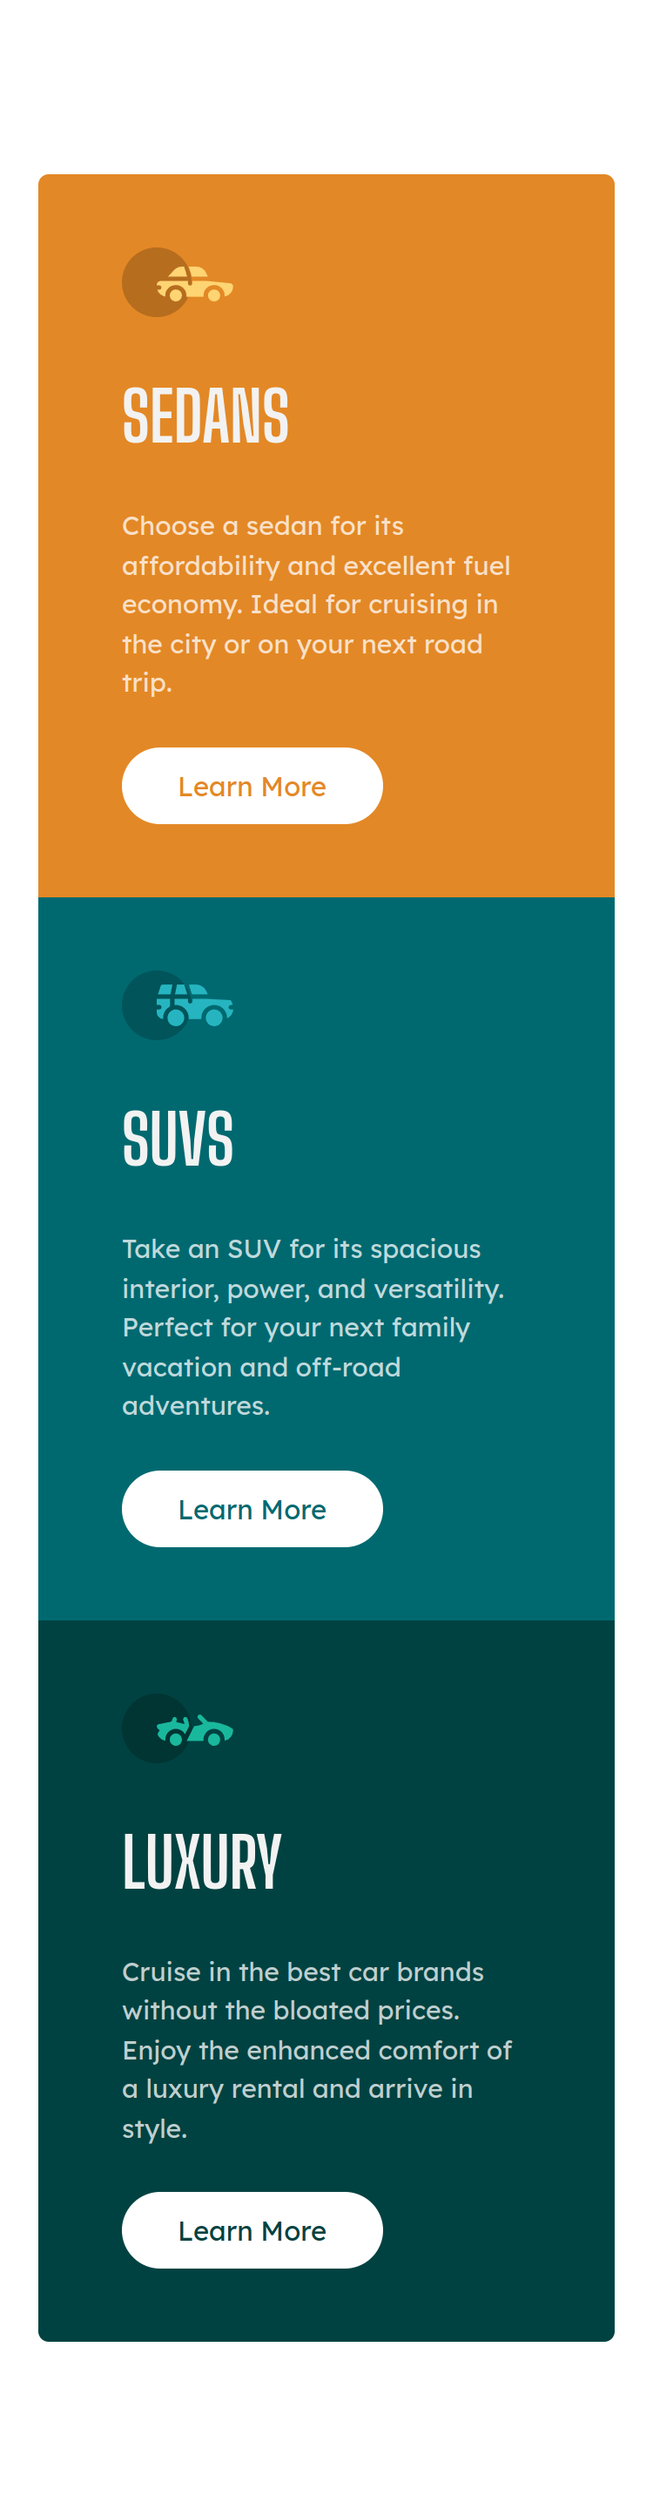
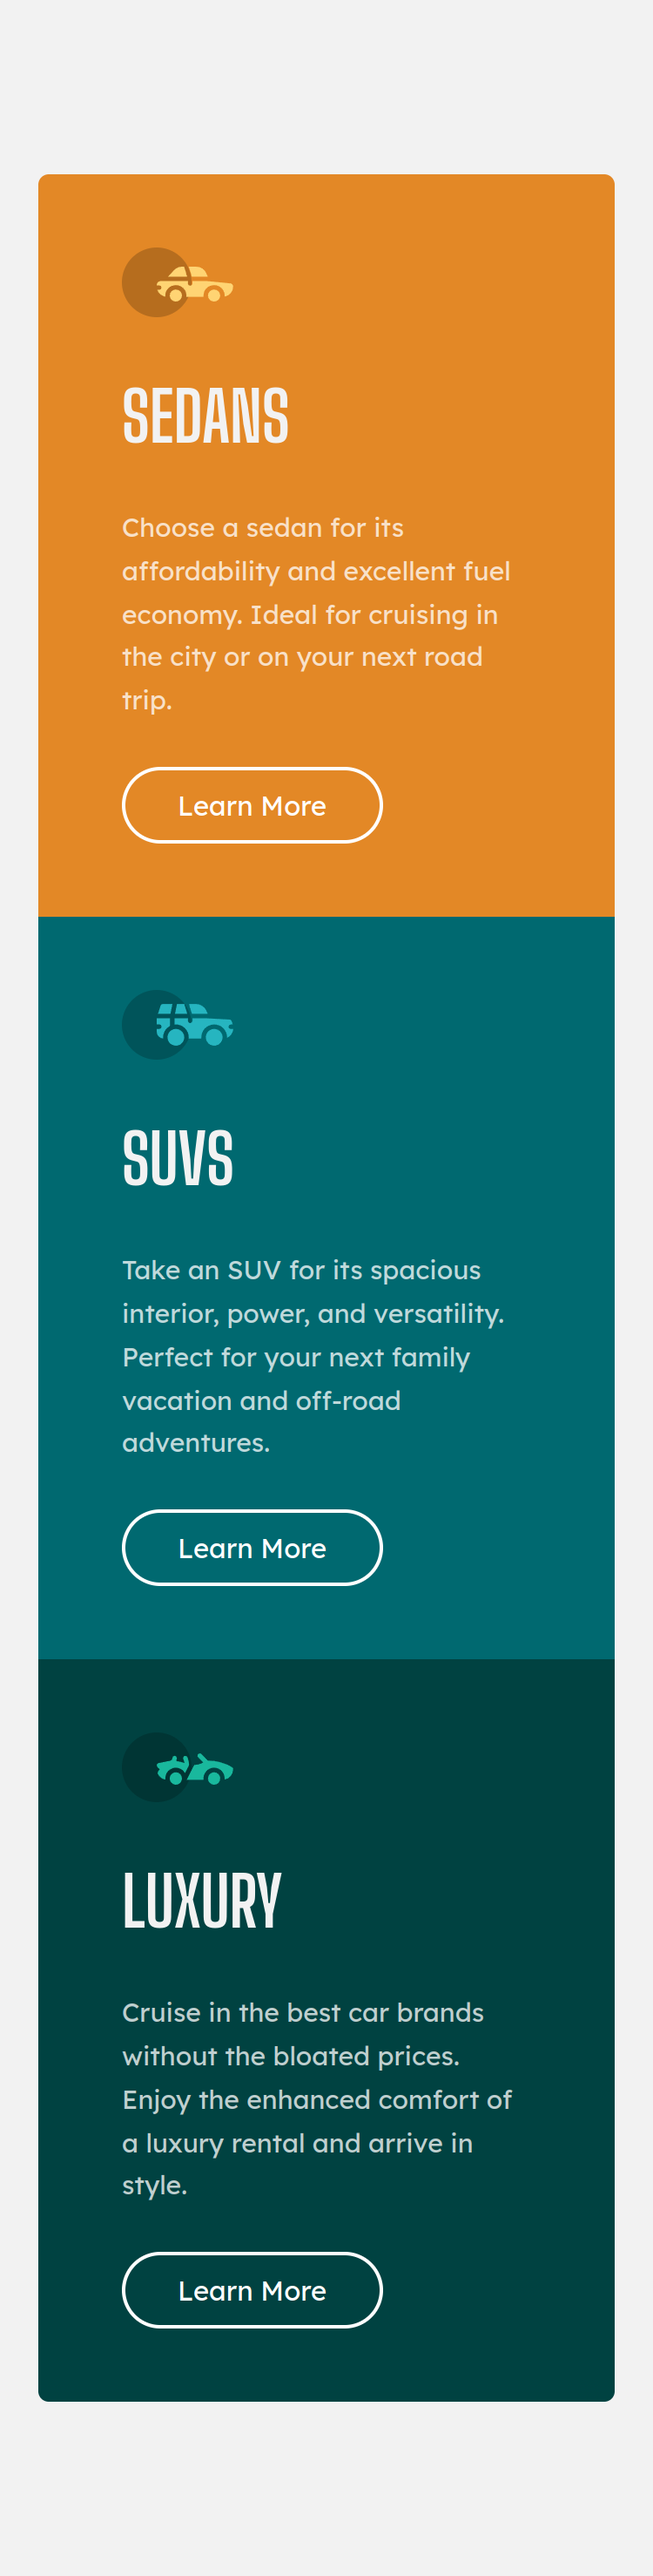
Fix background-color, line-height and update screenshots

diff --git a/style.css b/style.css
@@ -38,7 +38,7 @@ body {
     font-size: 15px;
     display: grid;
     place-content: center;
-    background-color: var(--transparent-white-color);
+    background-color: var(--very-light-gray-color);
 }
 
 main {
@@ -79,7 +79,7 @@ main > section > header > div {
 main > section > p {
     color: var(--transparent-white-color);
     margin-block-end: 85.25px;
-    line-height: 1.5;
+    line-height: 1.65;
 }
 
 main > section > button {
